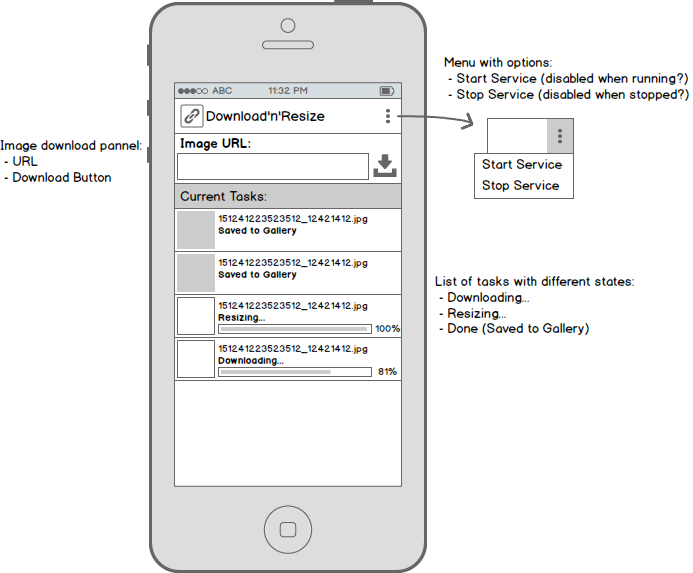
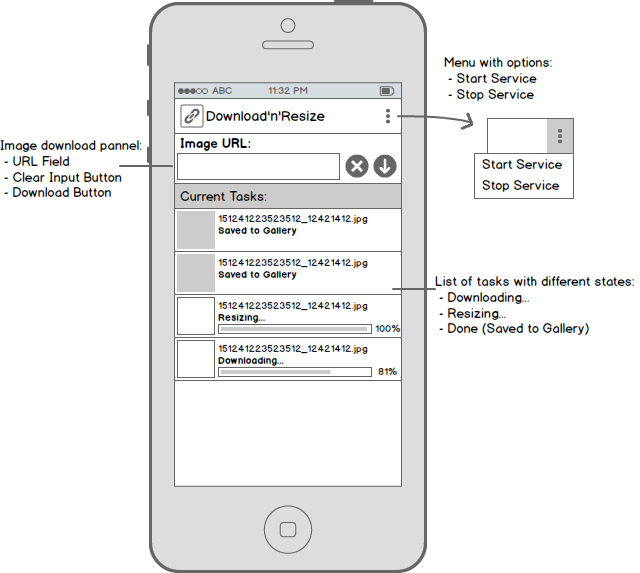
Adding: Clear button to clear URL input field. Mockups update

diff --git a/src/com/eclair/downloadnresize/MainActivity.java b/src/com/eclair/downloadnresize/MainActivity.java
@@ -24,6 +24,7 @@ import java.net.MalformedURLException;
 public class MainActivity extends Activity {
     private EditText urlField;
     private ImageButton downloadButton;
+    private ImageButton clearButton;
     private ListView tasksListView;
 
     private boolean isServiceBound;
@@ -42,11 +43,19 @@ public class MainActivity extends Activity {
                 processUserInput(urlField.getText().toString().trim());
             }
         });
+
+        clearButton.setOnClickListener(new View.OnClickListener() {
+            @Override
+            public void onClick(View v) {
+                urlField.setText("");
+            }
+        });
     }
 
     private void bindWidgets() {
         urlField = (EditText)findViewById(R.id.urlField);
         downloadButton = (ImageButton)findViewById(R.id.downloadButton);
+        clearButton = (ImageButton)findViewById(R.id.clearButton);
         tasksListView = (ListView)findViewById(R.id.tasksListView);
     }
 
